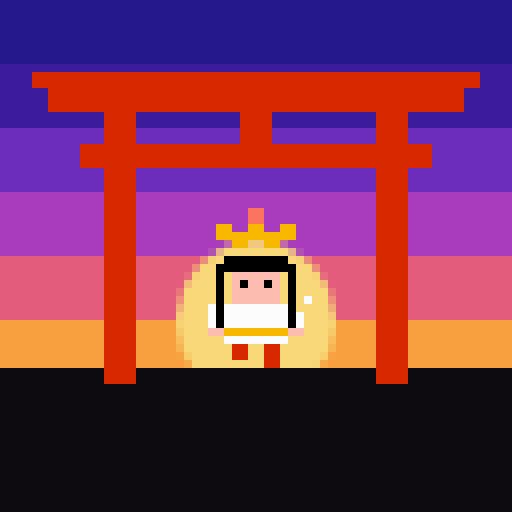
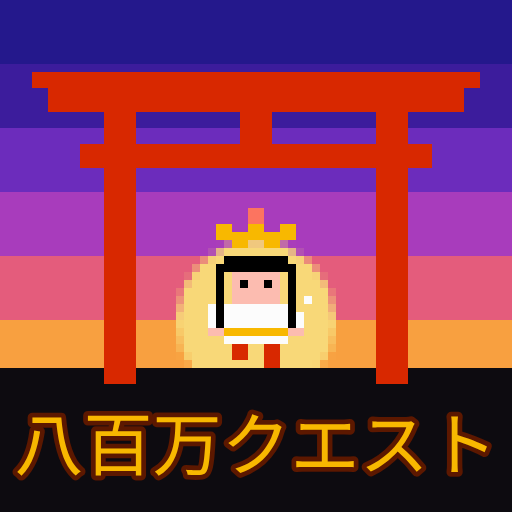
アプリアイコンにタイトル文字を追加
Claude-Session: https://claude.ai/code/session_01KBGaUzvSHc8XUbiXGswuYB

Changed region(s): [[0.0, 0.7812, 0.8438, 0.9375], [0.875, 0.7812, 0.9688, 0.9375]]

diff --git a/sw.js b/sw.js
@@ -1,4 +1,4 @@
-const CACHE='yaoyorozu-v87';
+const CACHE='yaoyorozu-v88';
 const CORE=['./','index.html','manifest.webmanifest','icon-192.png','icon-512.png','icon-maskable-512.png','apple-touch-icon.png'];
 self.addEventListener('install',e=>{e.waitUntil(caches.open(CACHE).then(c=>c.addAll(CORE)).then(()=>self.skipWaiting()));});
 self.addEventListener('activate',e=>{e.waitUntil(caches.keys().then(ks=>Promise.all(ks.filter(k=>k!==CACHE).map(k=>caches.delete(k)))).then(()=>self.clients.claim()));});
